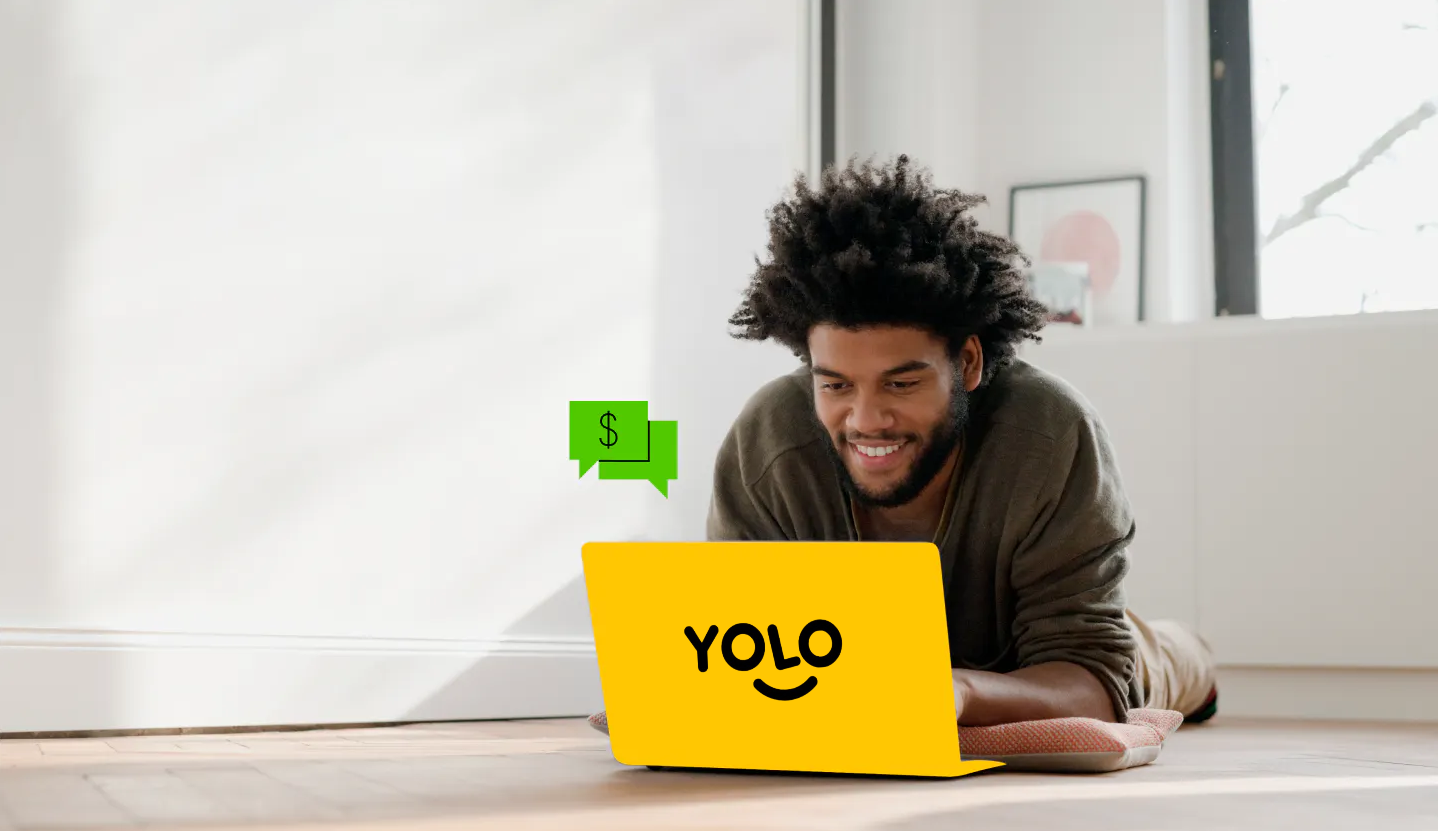
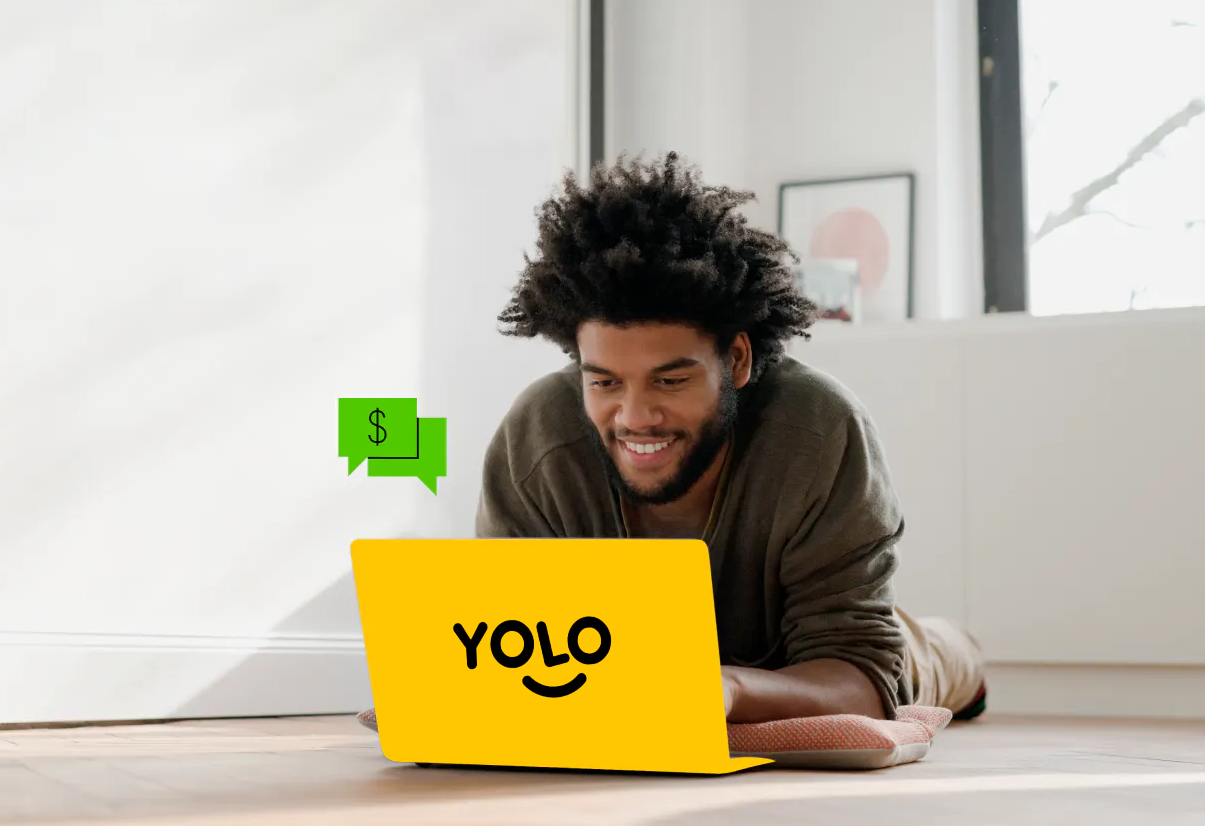
atualizacao about

diff --git a/app/assets/stylesheets/components/_banner.scss b/app/assets/stylesheets/components/_banner.scss
@@ -24,3 +24,15 @@
   opacity: .7;
   text-shadow: 1px 1px 3px rgba(0,0,0,0.2);
 }
+
+.banner_about {
+  background-size: cover;
+  background-position: center center;
+  padding: 160px ;
+  width: 100%;
+  height: 700px;
+  overflow: hidden;
+  font-family: Graphik;
+  background-repeat: no-repeat;
+  object-fit: contain;
+}
